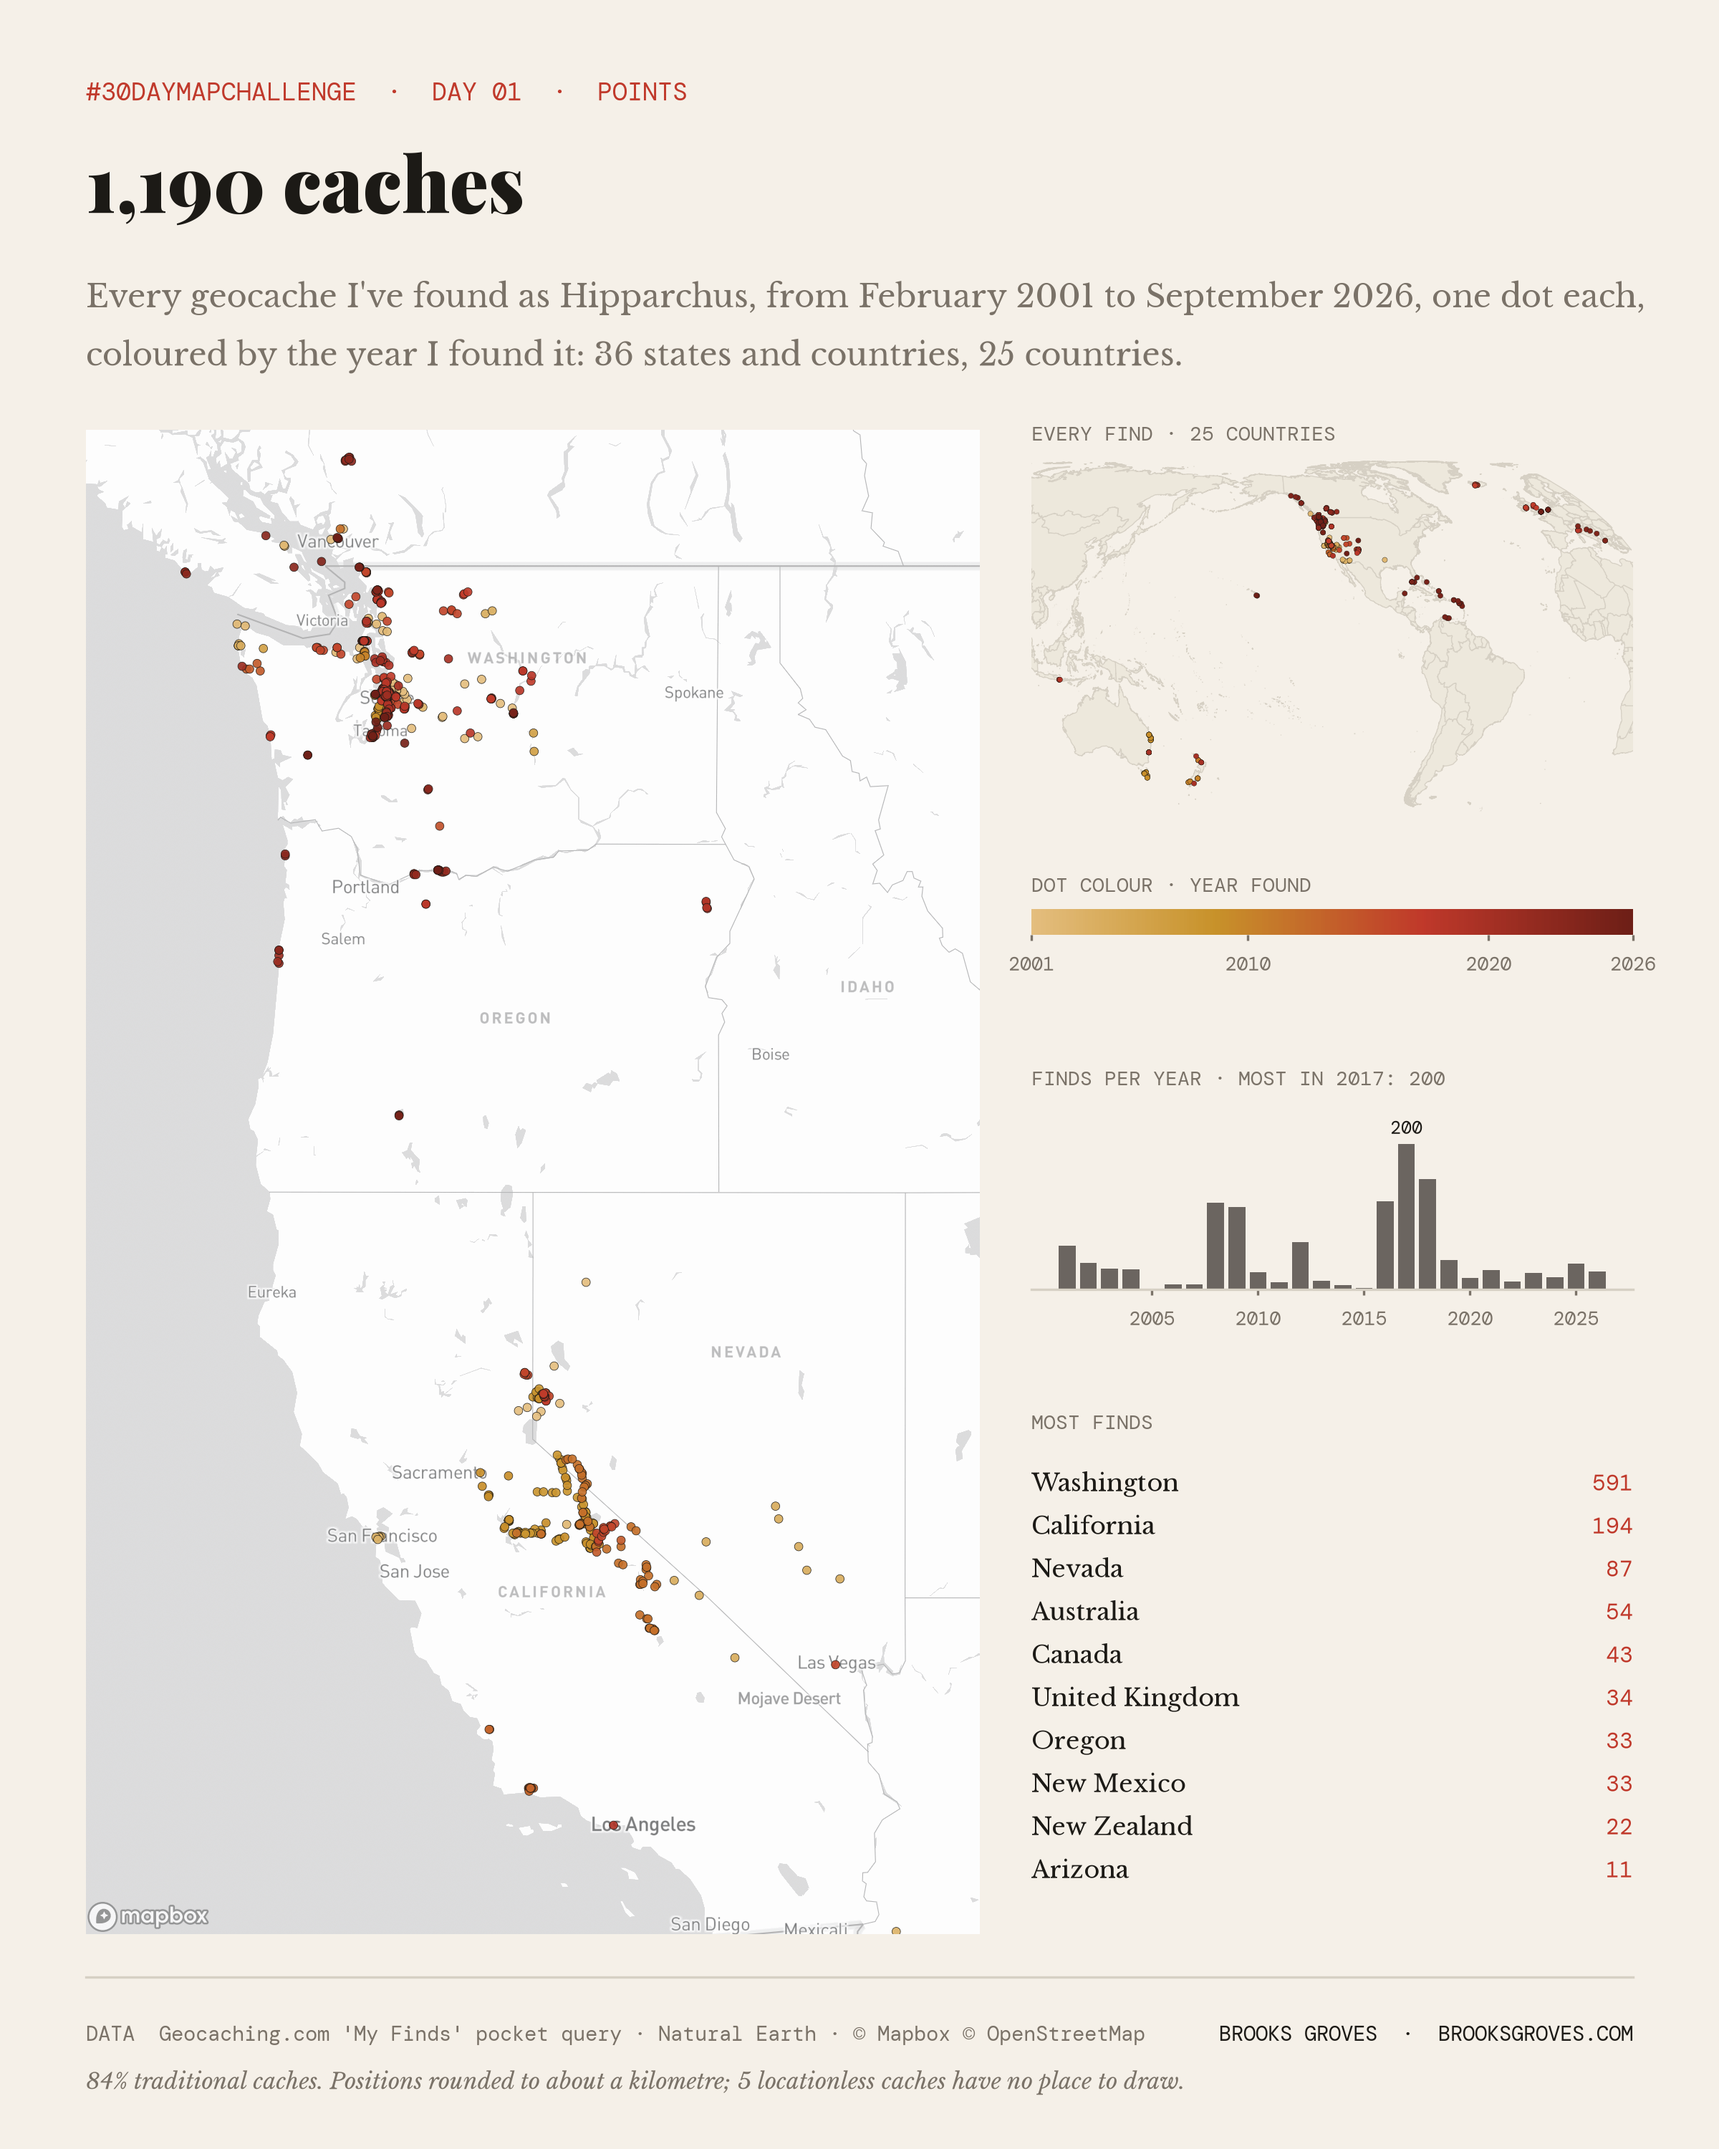
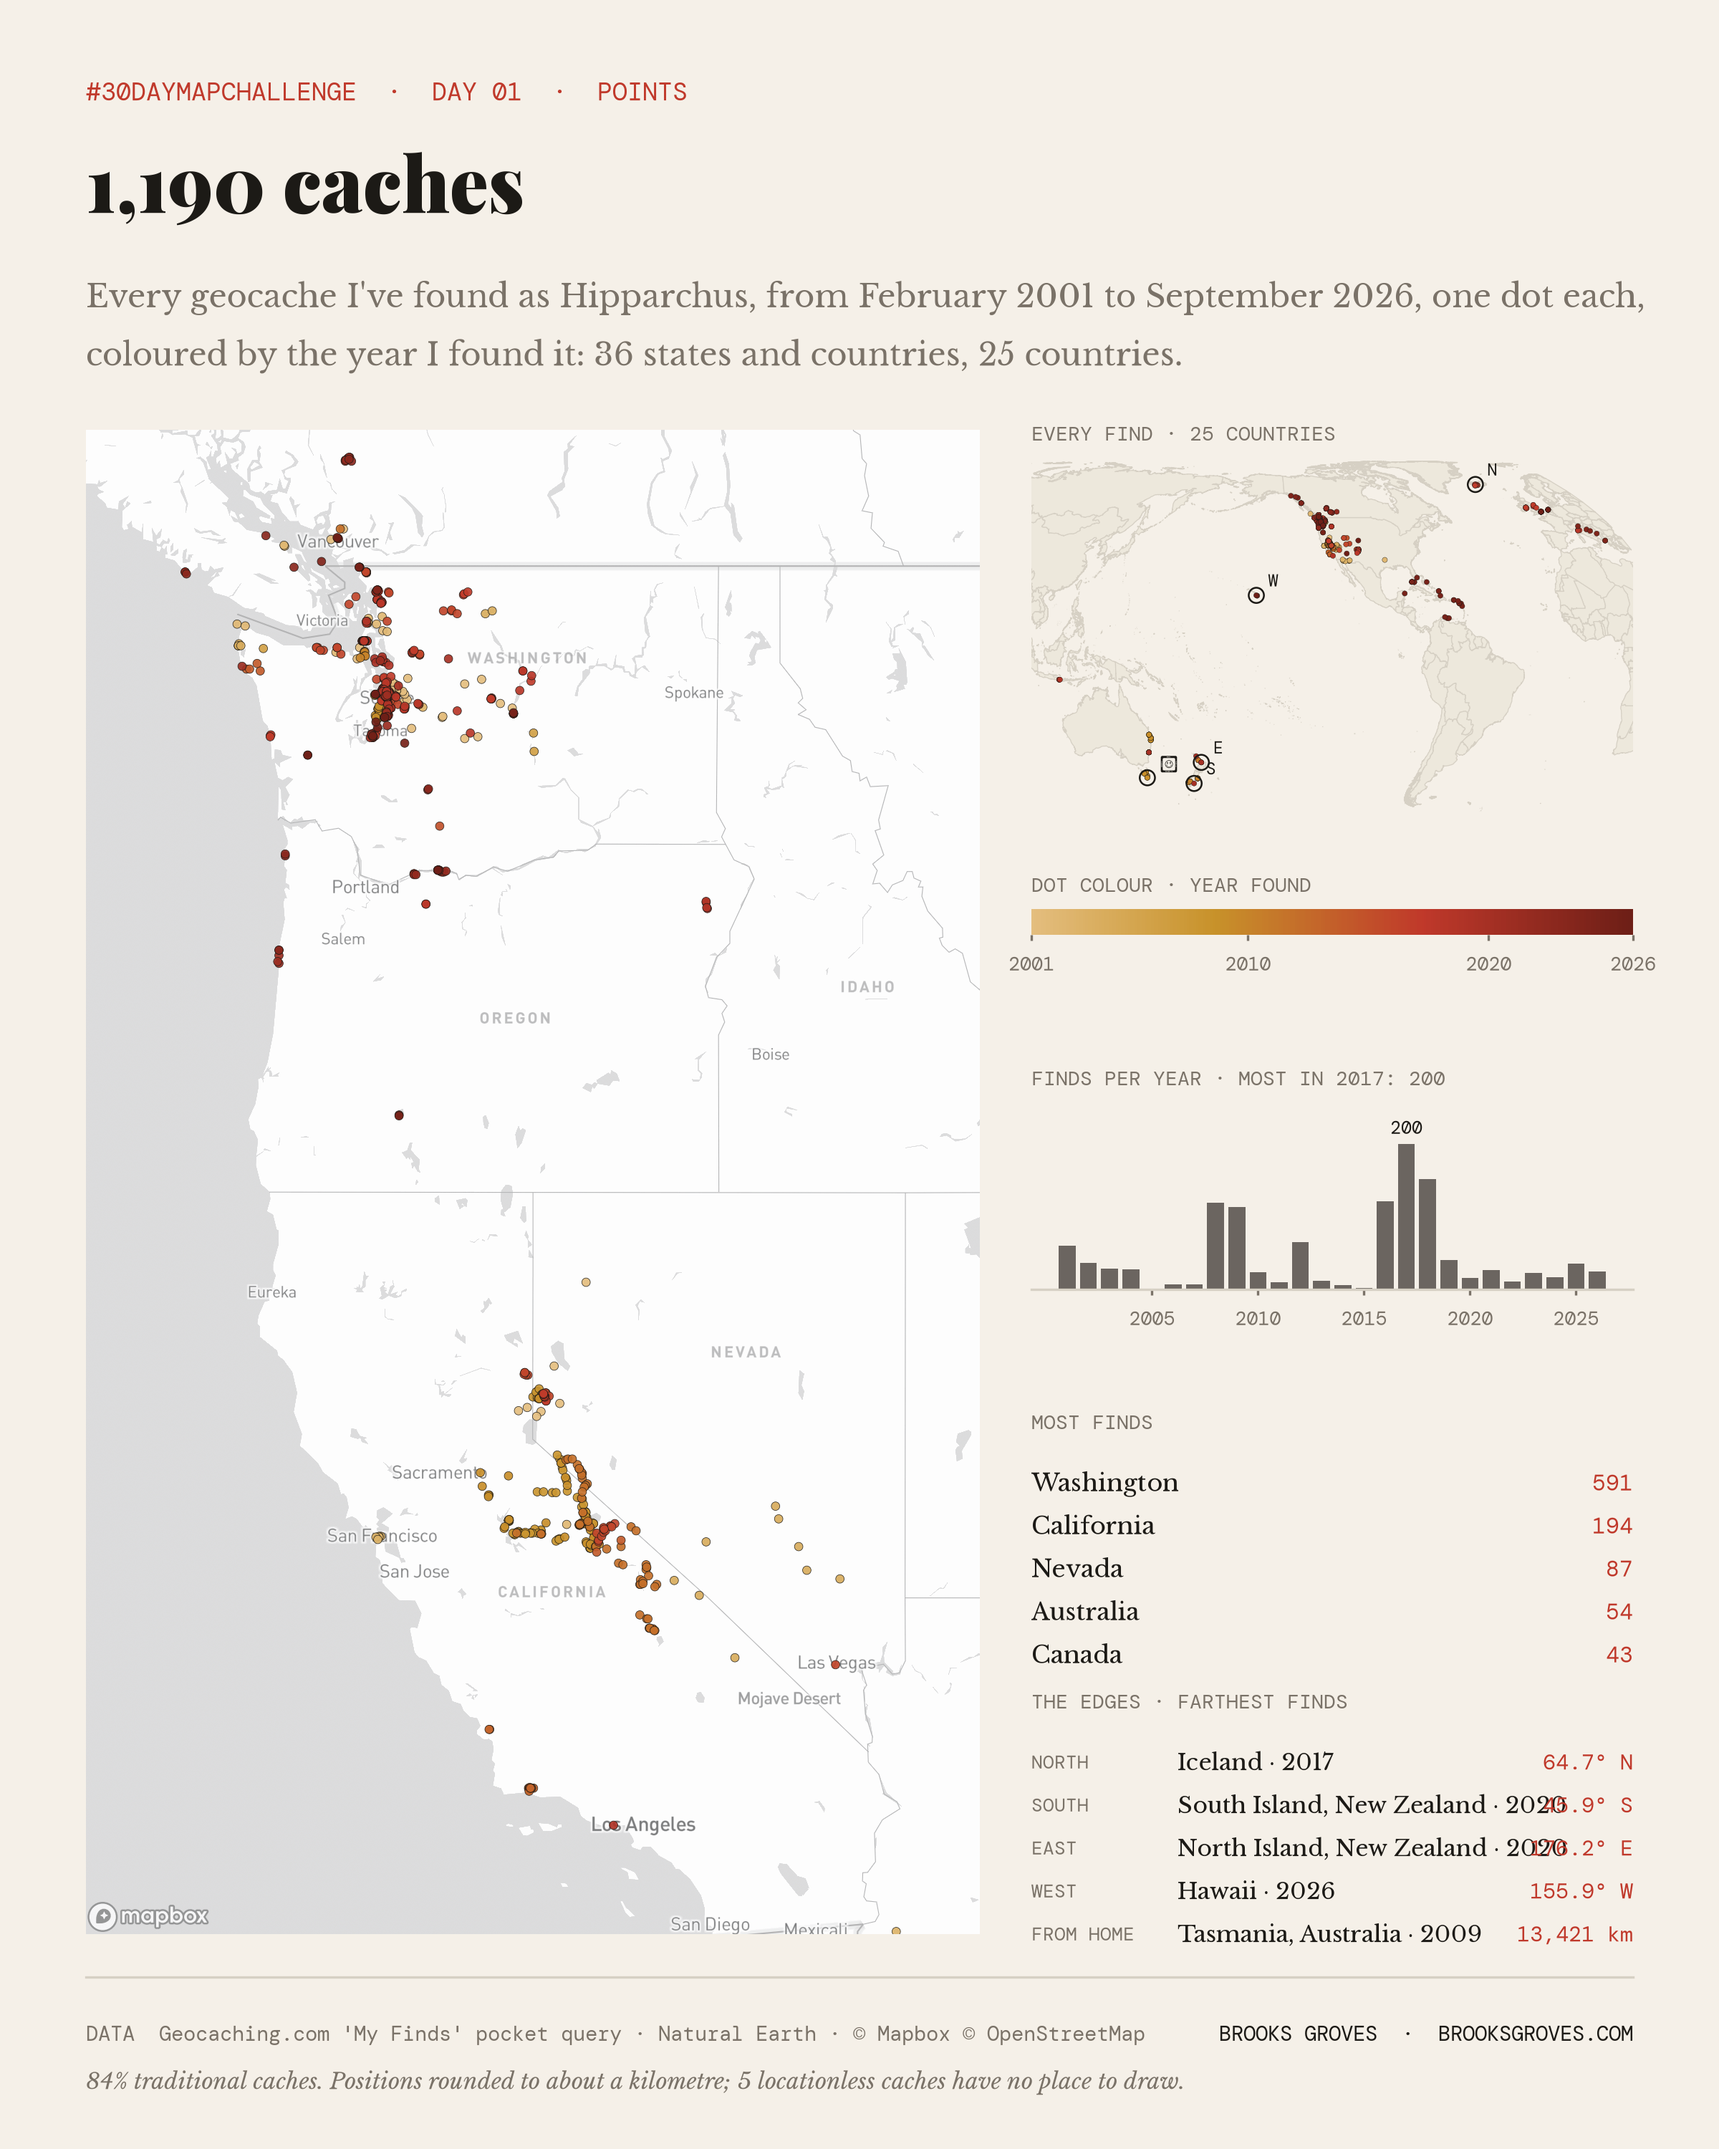
2026: render day 1 [skip ci]

Changed region(s): [[0.5938, 0.775, 0.9375, 0.899], [0.9375, 0.806, 0.9688, 0.837]]

diff --git a/2026/share/day-01.html b/2026/share/day-01.html
@@ -11,7 +11,7 @@
 <meta property="og:url" content="https://brooksgroves.com/30DayMapChallenge/2026/share/day-01.html">
 <meta property="og:image" content="https://brooksgroves.com/30DayMapChallenge/2026/day-01-points/out/card.jpg">
 <meta property="og:image:width" content="1200"><meta property="og:image:height" content="630">
-<meta property="og:image:alt" content="Map of 1,190 geocaches found by Hipparchus from 2001 to 2026, as small dots coloured from pale gold for early years to dark red for recent ones. The main map covers the West Coast, where most are, thickest in Washington, California, Nevada. A small world map below shows finds in 25 countries, and a bar chart shows finds per year, with the most in 2017.">
+<meta property="og:image:alt" content="Map of 1,190 geocaches found by Hipparchus from 2001 to 2026, as small dots coloured from pale gold for early years to dark red for recent ones. The main map covers the West Coast, where most are, thickest in Washington, California, Nevada. A small world map below shows finds in 25 countries, and a bar chart shows finds per year, with the most in 2017. The farthest finds: north in Iceland, south in South Island, New Zealand, east in North Island, New Zealand, west in Hawaii, and farthest from home in Tasmania, Australia, 13,421 km away.">
 <meta name="twitter:card" content="summary_large_image">
 <meta name="twitter:title" content="Day 1 · Points: 1,190 caches">
 <meta name="twitter:description" content="Map of 1,190 geocaches found by Hipparchus from 2001 to 2026, as small dots coloured from pale gold for early years to dark red for recent ones. The main map covers the West Coast, where most are,…">
